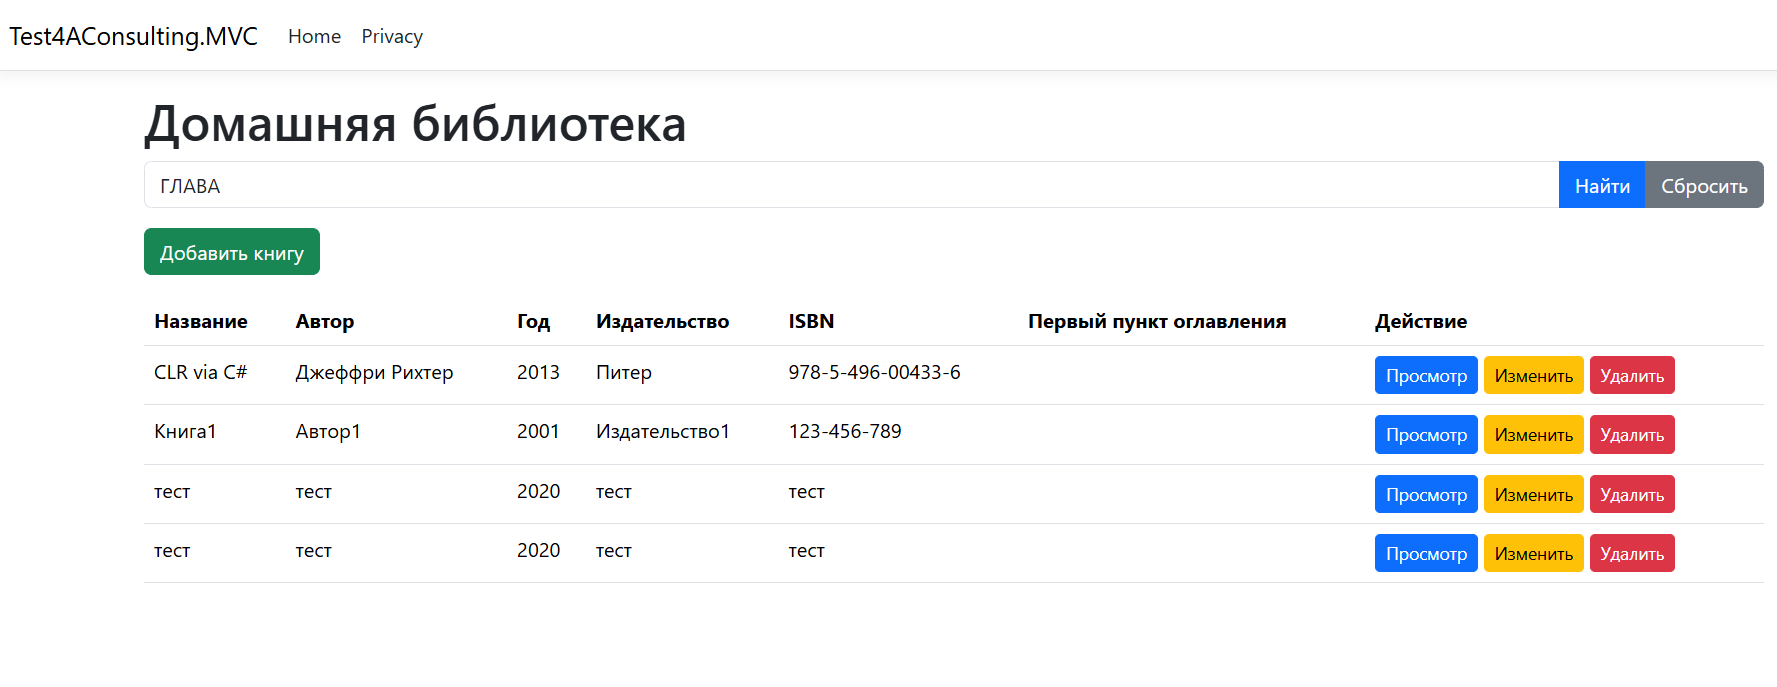
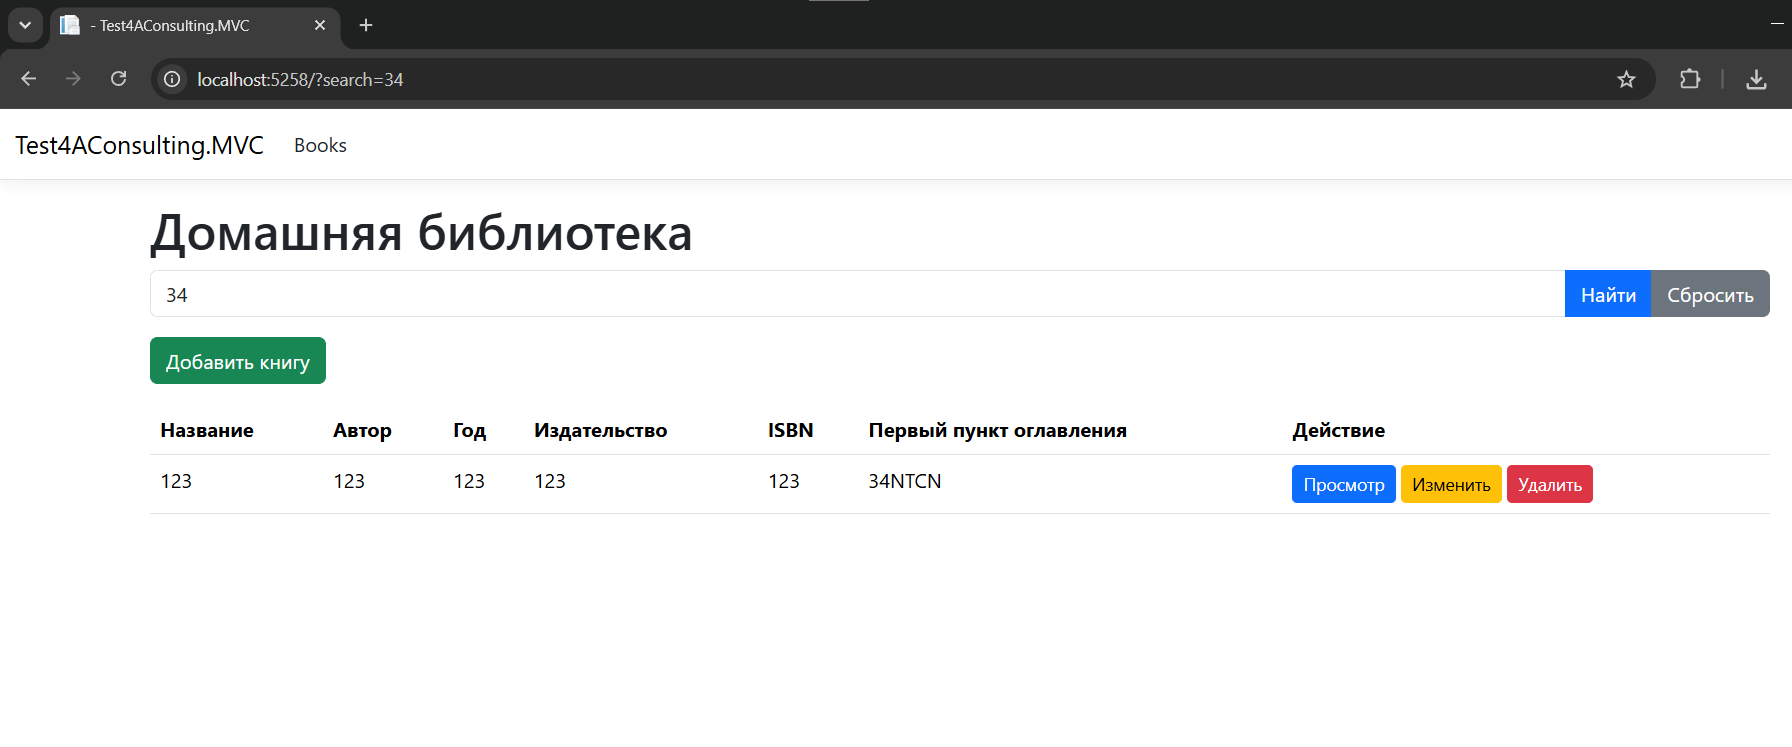
fix: Update default route, navbar, and BookRepository mapping
Changed default route and navbar to use Books controller. Updated BookRepository to explicitly map properties for Book_Update. Removed Privacy link from navbar. Modified mvc-xml-search.png.

diff --git a/src/Test4AConsulting.MVC/Repositories/BookRepository.cs b/src/Test4AConsulting.MVC/Repositories/BookRepository.cs
@@ -1,6 +1,5 @@
 using Dapper;
 using Microsoft.Data.SqlClient;
-using System;
 using System.Data;
 using Test4AConsulting.MVC.Models;
 
@@ -72,7 +71,17 @@ public class BookRepository : IBookRepository
 
         await connection.ExecuteAsync(
             "Book_Update",
-            book,
+            new
+            {
+                book.Id,
+                book.Title,
+                book.Author,
+                book.PublicationYear,
+                book.Publisher,
+                book.Isbn,
+                book.Description,
+                book.Contents
+            },
             commandType: CommandType.StoredProcedure);
     }
 

diff --git a/src/Test4AConsulting.MVC/Program.cs b/src/Test4AConsulting.MVC/Program.cs
@@ -24,7 +24,7 @@ app.MapStaticAssets();
 
 app.MapControllerRoute(
     name: "default",
-    pattern: "{controller=Home}/{action=Index}/{id?}")
+    pattern: "{controller=Books}/{action=Index}/{id?}")
     .WithStaticAssets();
 
 
